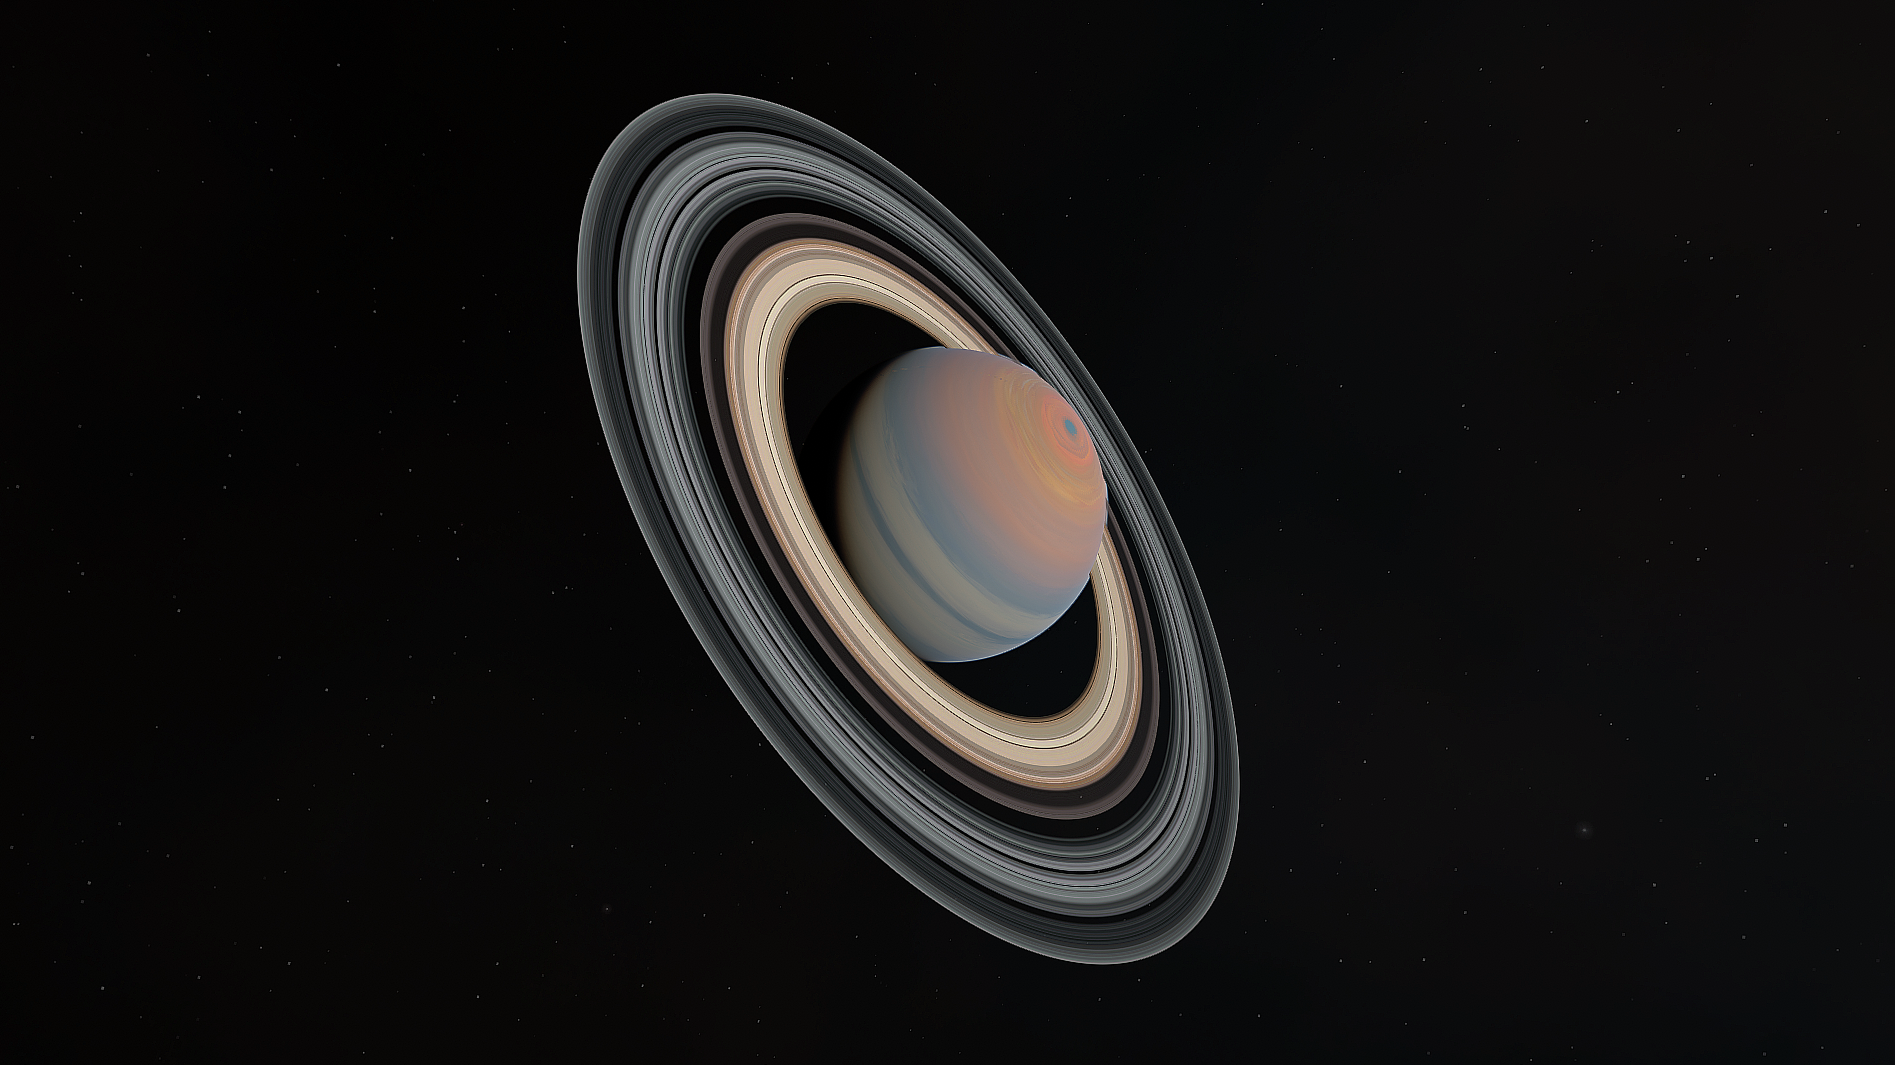
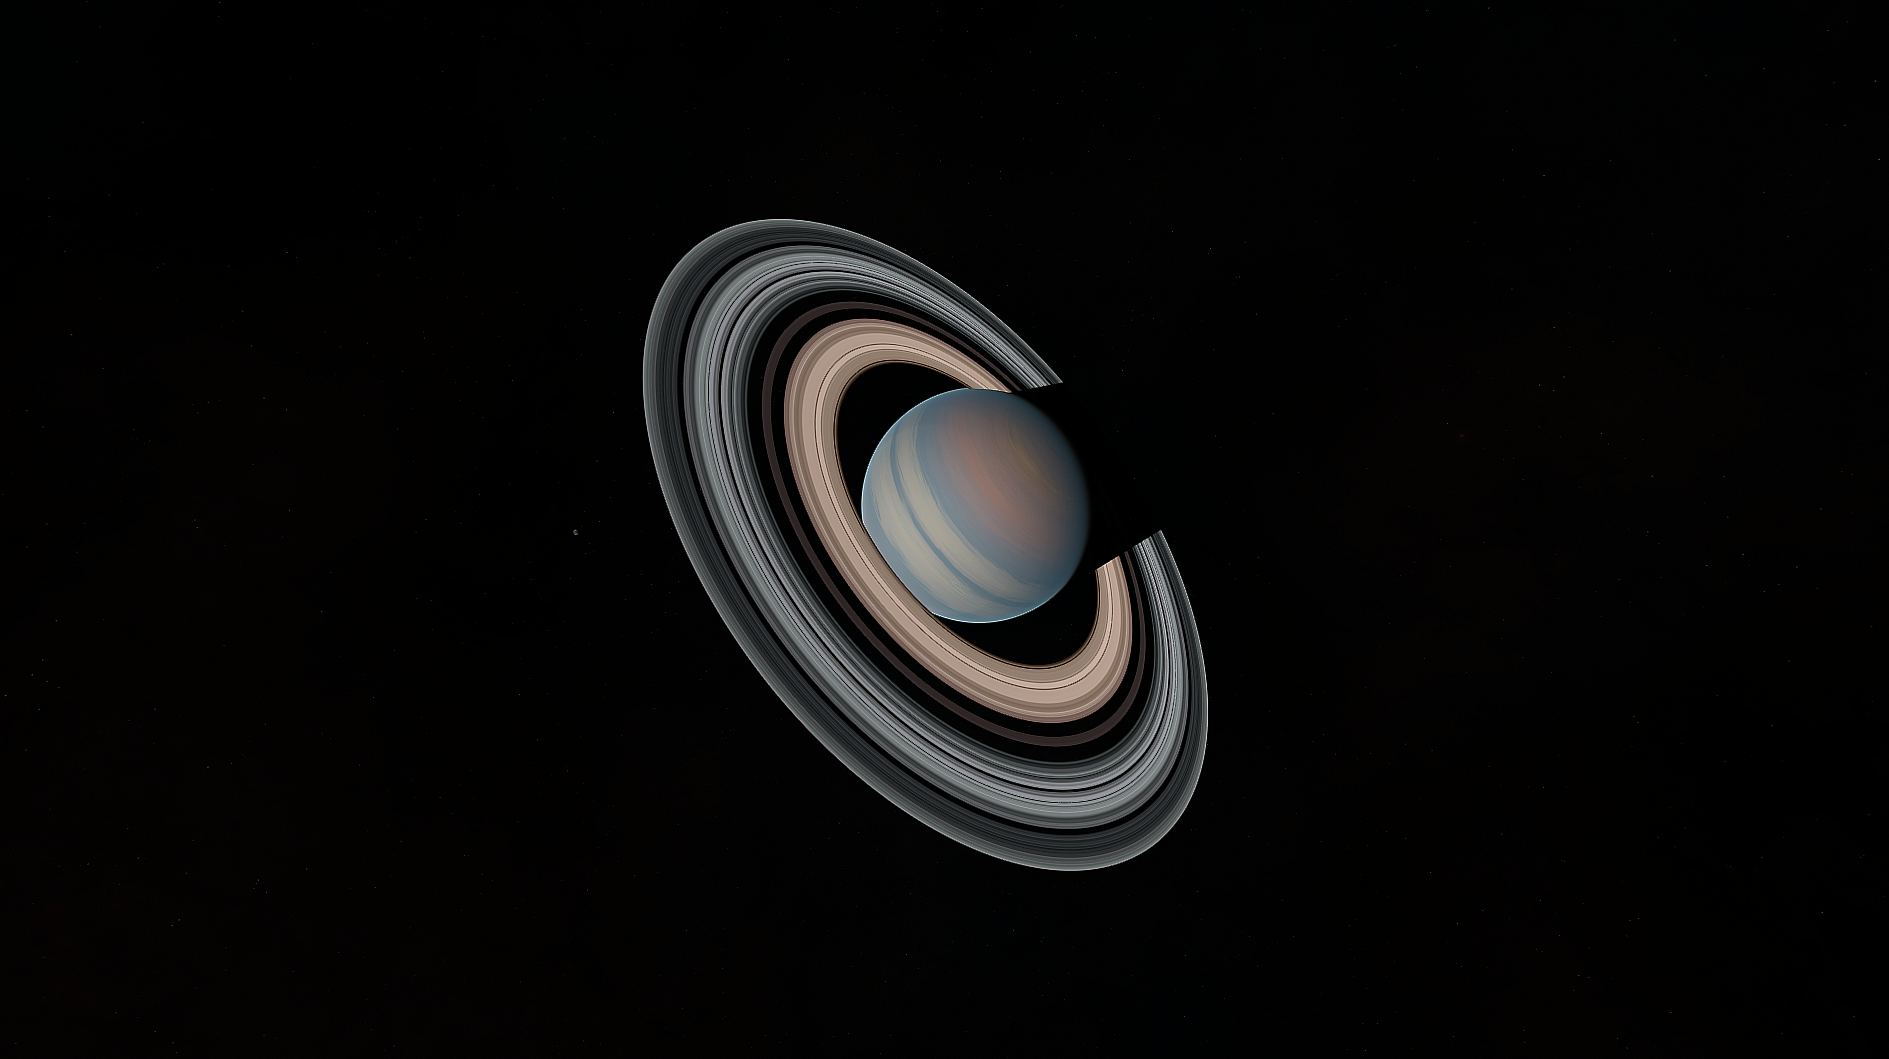
Tuun Revision + No Auroras Shown
In prep for aurora changes, plus new screenshots of most tuun bodies. (i'm not bothering with rask/rusk)

Changed region(s): [[0.2811, 0.0623, 0.6559, 0.9037]]

diff --git a/docs/debdeb/Ovin.md b/docs/debdeb/Ovin.md
@@ -6,7 +6,7 @@ A choked atmosphere, a shattered surface and gravity that will tear you to shred
 
 ## Detailed Explanation of Ovin:
 
-Ovin spells disaster for any lander or ship that manages to skim above it's super thick Green and Yellow atmosphere. Once you're in, there is very little chance you're escaping. With nearly 4x Kerbin's graity, Ovin has been sucking up ships since Kerbals first set out for the stars. It's probably a really good idea to pack a ship/lander with lots of staging, lots of delta v, and a massive TWR. Otherwise, you may have to send a rescue mission.
+Ovin spells disaster for any lander or ship that manages to skim above it's super thick Green and Yellow atmosphere. Once you're in, there is very little chance you're escaping. With nearly 4x Kerbin's graity, Ovin has been sucking up ships since Kerbals first set out for the stars. It's probably a really good idea to pack a ship/lander with lots of staging, lots of delta v, and a massive TWR. Otherwise, you may have to send a rescue mission. With major flares coming from the young star that is Debdeb, any planet with a significant magnetic field will have Aurora. Such here, Ovin has Polar Aurora. No doubt about it, considering it's massive gravitational field.
 
 ## Object Info
 
@@ -26,9 +26,5 @@ A Re-Created Shot using Part Mods from low Ovin Orbit
 
 Ovin's Rings
 ![](../assets/OvinRings.png)
-
-With major flares coming from the young star that is Debdeb, any planet with a significant magnetic field will have Aurora. Such here, Ovin has Polar Aurora. No doubt about it, considering it's massive gravitational field.
-
-![](../assets/OvinAurora.gif)
 
 *The Systems of Promised Worlds may change in-between updates. Please notify the Dev team if this is out of date, or make an issue on this repository.*

diff --git a/docs/tuun/Merbel.md b/docs/tuun/Merbel.md
@@ -1,6 +1,6 @@
 # Merbel
 
-![](../assets/Merbel.png)
+![](../assets/Merbel2.png)
 
 ## Merbel Description:
 
@@ -11,8 +11,6 @@ Merbel has gone a different aesthetic direction from other celestial bodies. It 
 ## Detailed Explanation of Merbel
 
 Merbel strikes many unique geographical formations, due to it's mostly methane ice crust, and wind-chilled deserts. The chilling winds are so repetitive on Merbel that they have formed Ice-streaks across the surface, and have since formed everlasting ice-caps.
-
-![](../assets/MerbelSpace2.png)
 
 ## Object Info
 
@@ -25,13 +23,13 @@ Merbel strikes many unique geographical formations, due to it's mostly methane i
 - Rotational Period (In Seconds): 28,800
 - GeesASL (At Sea Level): 0.46G's
 
-# Merbel's Poles
+# Merbel's Surface & Poles
 
-Merbel also features very calm and faint aurora on it's poles. It's quite the place for an outpost as Glumo rises and sets in the distance, as well as seeing the rest of the Tuun planets from here!
+Merbel is quite the place for an outpost as Glumo rises and sets in the distance, as well as seeing the rest of the Tuun planets from here!
 
-![](../assets/MerbelAurora.png)
+![](../assets/MerbelSurf.png)
 
-![](../assets/MerbelPoles.png)
+![](../assets/MerbelScat.png)
 
 # Merbel's Oceans
 
@@ -40,8 +38,6 @@ Merbel also featuers a striking equatorial nearly frozen ocean, which near the c
 ![](../assets/MerbelOcean.png)
 
 ![](../assets/MerbelSurfOcean.png)
-
-![](../assets/MerbelSurf.png)
 
 ## General Tips for Merbel
 If you plan to visit merbel, make sure to pack hiking boots with spikes, as the terrain is quite slippery, and basically always frozen in the cold!

diff --git a/docs/Tuun System.md b/docs/Tuun System.md
@@ -37,9 +37,11 @@ Dense and alien, the Tuun System is a prime destination for daring explorers. El
 
   - Noj - Noj is a shepherd moon formed from the accretion of ice and other silly things encountered while orbiting Glumo's ring system. Dust stains the ice to create lovely pops of color on it's surface. Pretty colors aside, scientists can't shut up about the initial readings from Noj, and they want more data, if we can get there.
 
+   ![](assets/Noj.png)
+
   - Merbel - Merbel has gone a different aesthetic direction from other celestial bodies. It dons a bold sea of methane and ammonia between its two massive ice caps. The dizzying rotation speed and low inclination gets the equator a lot of Tuun's attention. Merbel's orbital plane is completely off from Glumo's equator, suggesting it was once a planet itself that got captured by Glumo. Other moons may have been destabilized, possibly creating Glumo's iconic rings!
 
-  ![](assets/Merbel.png)
+  ![](assets/Merbel2.png)
 
 
 - Skut - Skut is the funkiest chunk of rock around! See how it looks like two asteroids fused together? Well we think that's how it got its unique arrowhead shape. Skut's shape isn't the only oddity though. Its wildly eccentric orbit sees it pass extremely close to Tuun and then back out into the farther reaches of the system. Maybe it can't decide where to set the thermostat.

diff --git a/docs/tuun/Noj.md b/docs/tuun/Noj.md
@@ -1,5 +1,28 @@
 # Noj
 
+![](../assets/Noj.png)
+
 Noj is a shepherd moon formed from the accretion of ice and other silly things encountered while orbiting Glumo's ring system. Dust stains the ice to create lovely pops of color on it's surface. Pretty colors aside, scientists can't shut up about the initial readings from Noj, and they want more data, if we can get there.
+
+## Detailed Explanation of Noj
+
+Noj is quite the spectacle. Due to many bombardments of it's formation, it has since been a bit lopsided. Besides that, It's worth a visit for its extremely low gravity and the dazzling views of Glumo.
+
+## Object Info
+
+- Diameter: 11,000 Meters
+- Radius: 5,500 Meters
+- Orbits: Glumo
+- Semi-Major Axis: Roughly 20 thousand Kilometers
+- Inclination: 60 degrees
+- Eccentricity: none
+- Tidally Locked: True
+- GeesASL (At Sea Level): 0.005G's
+
+# Noj's Surface and Equator
+
+![](../assets/NojSurf.png)
+
+![](../assets/NojEqt.png)
 
 *The Systems of Promised Worlds may change in-between updates. Please notify the Dev team if this is out of date, or make an issue on this repository.*

diff --git a/docs/tuun/Glumo.md b/docs/tuun/Glumo.md
@@ -8,7 +8,7 @@ Groovy Glumo is truly one of a kind. Between the iconic rings and colorful satel
 
 Glumo Frequents a still, calm, but very interesting gaseous state. It's been the only observed Gas Giant to Kerbals to have seasonal weather changes. That also includes some swaying colors as mentioned above. Aurora are also a frequent occurence on Glumo and it's moons. Meaning, you may not see them all the time.
 
-![](../assets/GlumoSeason.png)
+(Glumo Seasons are currently WIP, however they are in our development build, which is not public.)
 
 Glumo currently features two moons:
 
